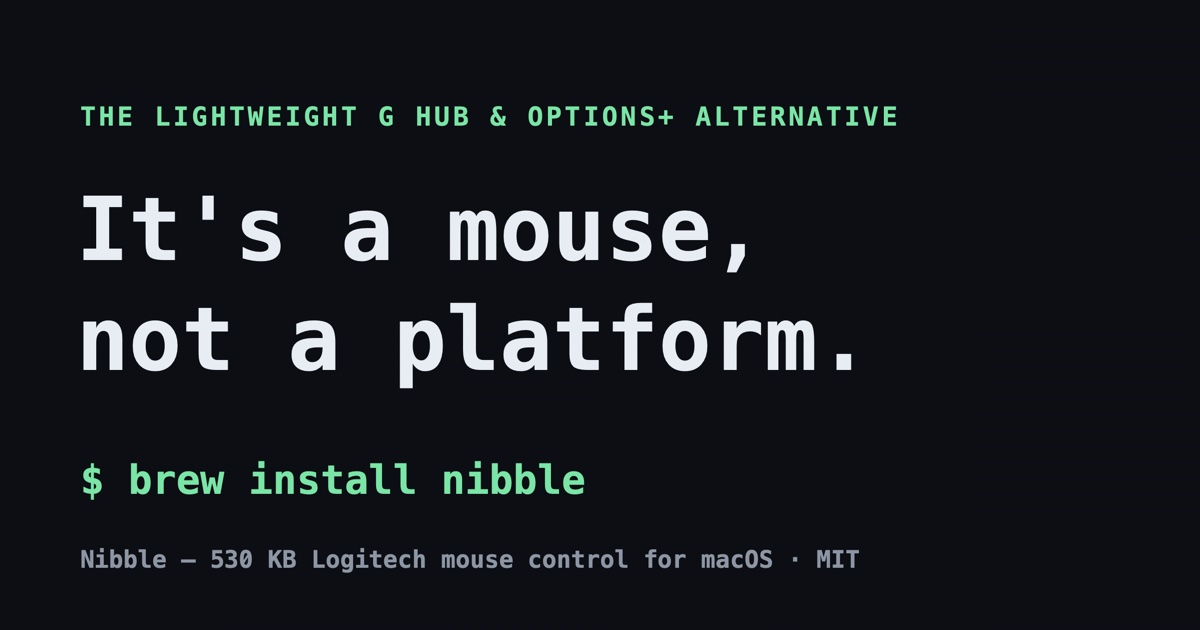
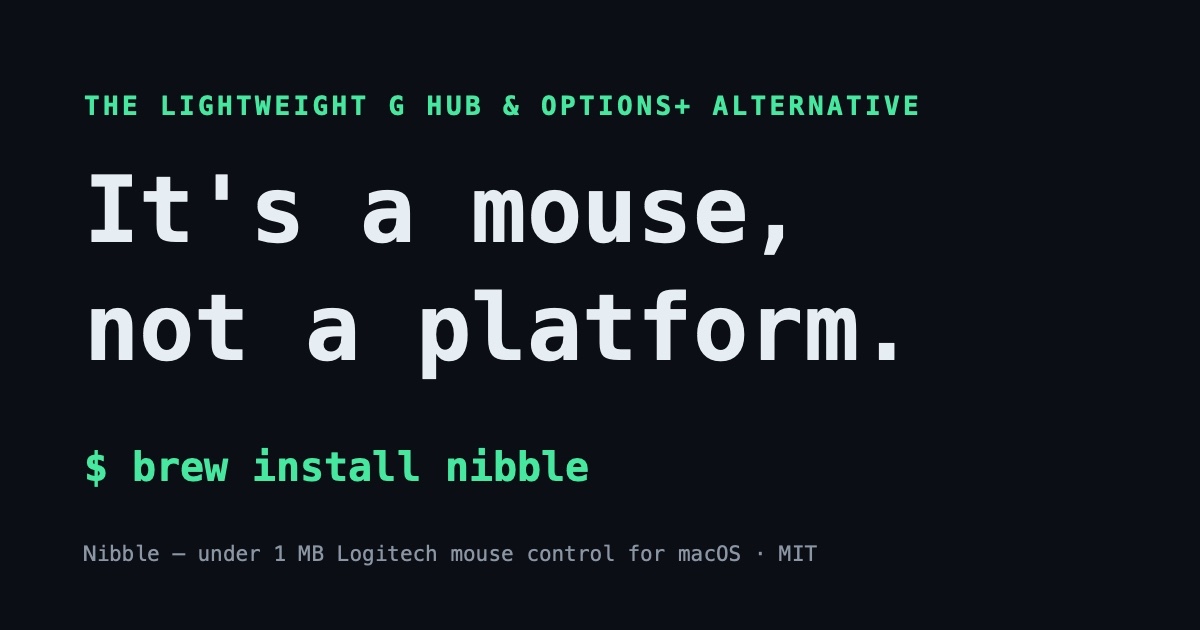
Copy pass for v1.7.0 — and stop baking the binary size into pixels
The site described v1.2.0: a CLI-only tool with a 530 KB binary and no
Bluetooth. Five releases later none of that is accurate.

Size claims now read "under 1 MB" instead of a number that goes stale
every release — including inside og.jpg, where "530 KB" was baked into
the pixels and could only be fixed by redrawing the image. The one
precise figure left is in the to-scale comparison, where the number is
the whole point; the fine print carries the version it applies to.
og.swift regenerates the card, so the next change doesn't mean
reverse-engineering the font and coordinates. It renders into an
explicit 1200x630 bitmap: NSImage.lockFocus would follow the screen's
2x scale and emit 2400x1260, contradicting og:image:width.

Corrections: softwareVersion 1.2.0 -> 1.7.0; the doctor sample was a
v1.2.0 screenshot with a check name that no longer exists; "Bluetooth-
direct not yet" is now implemented-but-unverified, which is a different
claim; wired USB works and was never mentioned; make app -> install-app.

Additions, all shipped but absent from the site: profiles, macros, the
settings window's actual contents, start-at-login, the configurable
low-battery alert, and the `profile` / `startup` commands. The config
example taught the legacy buttonMaps shape — still readable, but new
users shouldn't be learning the format we migrate away from.

Positioning: the pitch called Nibble a CLI. The GUI is now the primary
[…]

diff --git a/public/index.html b/public/index.html
@@ -3,10 +3,10 @@
 <head>
   <meta charset="utf-8" />
   <meta name="viewport" content="width=device-width, initial-scale=1, viewport-fit=cover" />
-  <title>Nibble — 530 KB Logitech mouse control for macOS</title>
-  <meta name="description" content="Nibble is a 530 KB zero-dependency CLI for Logitech mice on macOS — set DPI, remap buttons, read real battery voltage. No daemon, no telemetry, no account. brew install nibble." />
+  <title>Nibble — under 1 MB Logitech mouse control for macOS</title>
+  <meta name="description" content="Nibble is an under-1-MB zero-dependency tool for Logitech mice on macOS — set DPI, remap buttons with profiles and macros, read real battery voltage. Native settings window, CLI, and menu bar. No daemon, no telemetry, no account. brew install nibble." />
   <meta property="og:title" content="Nibble — it's a mouse, not a platform." />
-  <meta property="og:description" content="A 530 KB binary that speaks HID++ 4.2 to your Logitech mouse. No daemon, no telemetry, no account." />
+  <meta property="og:description" content="An under-1-MB binary that speaks HID++ 4.2 to your Logitech mouse. No daemon, no telemetry, no account." />
   <meta property="og:type" content="website" />
   <meta property="og:url" content="https://nibble-45j.pages.dev/" />
   <meta property="og:image" content="https://nibble-45j.pages.dev/og.jpg" />
@@ -14,7 +14,7 @@
   <meta property="og:image:height" content="630" />
   <meta name="twitter:card" content="summary_large_image" />
   <meta name="twitter:title" content="Nibble — it's a mouse, not a platform." />
-  <meta name="twitter:description" content="A 530 KB binary that speaks HID++ 4.2 to your Logitech mouse. No daemon, no telemetry, no account." />
+  <meta name="twitter:description" content="An under-1-MB binary that speaks HID++ 4.2 to your Logitech mouse. No daemon, no telemetry, no account." />
   <meta name="twitter:image" content="https://nibble-45j.pages.dev/og.jpg" />
   <link rel="canonical" href="https://nibble-45j.pages.dev/" />
   <script type="application/ld+json">
@@ -24,12 +24,12 @@
     "name": "Nibble",
     "operatingSystem": "macOS",
     "applicationCategory": "UtilitiesApplication",
-    "description": "A 530 KB zero-dependency CLI for Logitech mice on macOS — DPI, report rate, button remapping, battery voltage. No daemon, no telemetry, no account.",
+    "description": "An under-1-MB zero-dependency tool for Logitech mice on macOS — DPI, report rate, button remapping with profiles and macros, battery voltage. Native settings window, CLI, and menu bar. No daemon, no telemetry, no account.",
     "url": "https://nibble-45j.pages.dev/",
     "downloadUrl": "https://github.com/ben0128/nibble",
     "sameAs": ["https://github.com/ben0128/nibble"],
     "author": { "@type": "Person", "name": "ben0128", "url": "https://github.com/ben0128" },
-    "softwareVersion": "1.2.0",
+    "softwareVersion": "1.7.0",
     "license": "https://opensource.org/license/mit/",
     "offers": { "@type": "Offer", "price": "0", "priceCurrency": "USD" }
   }
@@ -130,6 +130,8 @@
       border: 1px solid color-mix(in srgb, var(--accent) 28%, transparent);
       padding: 5px 12px; border-radius: 999px;
     }
+    /* roadmap, not a feature — accent colouring here would read as "already done" */
+    .chip.muted { color: var(--soft); background: var(--panel); border-color: var(--line); }
 
     /* terminal card */
     .term {
@@ -240,6 +242,20 @@
     .req li { padding-left: 20px; position: relative; margin-top: 6px; }
     .req li::before { content: "·"; position: absolute; left: 6px; color: var(--accent); }
 
+    /* platform status row — deliberately NOT tabs: two of the three have nothing
+       to switch to, and a control that ignores clicks reads as a broken page */
+    .plat { display: flex; flex-wrap: wrap; align-items: center; gap: 12px; margin-top: 30px; }
+    .plat .now {
+      font: 600 .9rem var(--mono); color: var(--ink);
+      border: 1.5px solid color-mix(in srgb, var(--accent) 55%, transparent);
+      background: color-mix(in srgb, var(--accent) 8%, var(--bg));
+      border-radius: 10px; padding: 9px 15px;
+    }
+    .plat .now b { color: var(--accent); font-weight: 600; }
+    .plat .soon { font: 500 .86rem var(--mono); color: var(--soft); cursor: default; padding: 9px 2px; }
+    .plat-note { font-size: .88rem; color: var(--soft); margin: 14px 0 0; max-width: 68ch; }
+    .plat-note code { color: var(--ink); font-size: .92em; }
+
     /* honest strip */
     .honest { display: grid; grid-template-columns: repeat(3, 1fr); gap: 16px; margin-top: 36px; }
     .honest div { border-left: 2px solid var(--accent-dim); padding: 2px 0 2px 16px; }
@@ -292,15 +308,16 @@
       <div>
         <span class="eyebrow">The lightweight G HUB &amp; Options+ alternative</span>
         <h1>It's a mouse,<br />not a platform.</h1>
-        <p class="sub">A nibble is half a byte. This one is a 530 KB binary that runs your Logitech mouse from the macOS terminal — no daemon, no account, no telemetry.</p>
+        <p class="sub">A nibble is half a byte. This one is an under-1-MB binary that runs your Logitech mouse — native settings window, menu bar, or terminal. No daemon, no account, no telemetry.</p>
         <div class="cta-row">
           <button class="btn btn-brew" data-copy="brew tap ben0128/nibble && brew trust ben0128/nibble && brew install nibble" title="brew tap ben0128/nibble && brew trust ben0128/nibble && brew install nibble" aria-label="copy the Homebrew install command"><span class="p">$</span> brew install nibble <span class="cp">⧉</span></button>
           <a target="_blank" rel="noopener" class="btn btn-primary" href="https://github.com/ben0128/nibble">Get Nibble on GitHub</a>
         </div>
         <div class="hero-meta">
-          <span class="chip">530 KB binary</span>
+          <span class="chip">Under 1 MB</span>
           <span class="chip">Zero dependencies</span>
           <span class="chip">Open source · MIT</span>
+          <span class="chip muted">macOS today · Linux &amp; Windows soon</span>
         </div>
       </div>
 
@@ -325,16 +342,19 @@
 <span class="t-line o">63% 3.92V charging</span>
 <span class="t-line gap"></span>
 <span class="t-line"><span class="p">$</span> <span class="c">nibble doctor</span></span>
-<span class="t-line o">Nibble doctor v1.2.0</span>
+<span class="t-line o">Nibble doctor v1.7.0</span>
 <span class="t-line gap"></span>
 <span class="t-line o"> <span class="ok">✅</span> <span class="k">input-monitoring</span>  granted</span>
-<span class="t-line o"> <span class="ok">✅</span> <span class="k">receiver</span>          046D:C539</span>
+<span class="t-line o"> <span class="ok">✅</span> <span class="k">transports</span>        receiver 046D:C539</span>
 <span class="t-line o"> <span class="ok">✅</span> <span class="k">device</span>            G502 LIGHTSPEED · HID++ 4.2</span>
 <span class="t-line o"> <span class="ok">✅</span> <span class="k">battery</span>           63% charging (0x1001)</span>
 <span class="t-line o"> <span class="ok">✅</span> <span class="k">remap-capable</span>     0x8110 MouseButtonSpy</span>
-<span class="t-line o"> <span class="ok">✅</span> <span class="k">config</span>            ~/.config/nibble.json · 2 maps</span>
-<span class="t-line o"> •  <span class="k">menubar</span>           running (remap engine)</span>
+<span class="t-line o"> <span class="ok">✅</span> <span class="k">config</span>            ~/.config/nibble.json · 2 maps · profile Gaming</span>
+<span class="t-line o"> <span class="ok">✅</span> <span class="k">remap-engine</span>      running · 2 mapping(s) · 0x8110 spy</span>
+<span class="t-line o"> <span class="ok">✅</span> <span class="k">menubar</span>           running (remap engine host)</span>
+<span class="t-line o"> •  <span class="k">login-startup</span>     on</span>
 <span class="t-line o"> •  <span class="k">login-replay</span>      installed</span>
+<span class="t-line o"> •  <span class="k">low-battery-alert</span> below 20%</span>
 <span class="t-line gap"></span>
 <span class="t-line o"> <span class="ok">All good.</span></span>
 <span class="t-line"><span class="p">$</span> <span class="cursor"></span></span></pre>
@@ -346,7 +366,7 @@
   <section id="compare">
     <div class="wrap">
       <span class="eyebrow">The pitch, to scale</span>
-      <h2>G HUB is a 4 GB install. Nibble is 530 KB.</h2>
+      <h2>G HUB is a 4 GB install. Nibble is under 1 MB.</h2>
       <div class="bars">
         <div class="bar-row">
           <span class="bar-name">G HUB</span>
@@ -358,10 +378,10 @@
         </div>
         <div class="bar-row">
           <span class="bar-name">Nibble</span>
-          <div class="bar-track"><div class="bar nib"></div><span class="after-label">530 KB</span></div>
+          <div class="bar-track"><div class="bar nib"></div><span class="after-label">720 KB</span></div>
         </div>
       </div>
-      <p class="bars-note">Drawn to scale, 530 KB would be 0.12 px wide — we rounded up so you can see it.</p>
+      <p class="bars-note">720 KB as of v1.7.0. Drawn to scale that bar would be 0.16 px wide — we rounded up so you can see it.</p>
     </div>
   </section>
 
@@ -372,7 +392,7 @@
       <h2>Small, native, and honest.</h2>
       <div class="grid">
         <div class="card">
-          <h3>530 KB. Zero dependencies.</h3>
+          <h3>Under 1 MB. Zero dependencies.</h3>
           <p>One static binary built with make. No runtime, no installer, no framework — nothing to keep updated.</p>
         </div>
         <div class="card">
@@ -381,7 +401,7 @@
         </div>
         <div class="card">
           <h3>Remap any button. No G HUB.</h3>
-          <p>The button list is read from the device itself, so any Logitech mouse just works. Map keystrokes or system actions — quit the menu bar and factory behavior is back instantly.</p>
+          <p>The button list is read from the device itself, so any Logitech mouse just works. Bind a keystroke, a macro, or a system action — and switch whole sets with profiles. Quit the menu bar and factory behavior is back instantly.</p>
         </div>
         <div class="card">
           <h3>Verified writes. Real volts.</h3>
@@ -389,11 +409,23 @@
         </div>
         <div class="card">
           <h3>Speaks HID++ 4.2, natively.</h3>
-          <p>Raw protocol over your Lightspeed / Unifying receiver through IOKit — the same language G HUB speaks.</p>
+          <p>Raw protocol through IOKit over a Lightspeed / Unifying receiver, a USB cable, or Bluetooth — the same language G HUB speaks.</p>
         </div>
         <div class="card">
-          <h3>Set once. Replays at login.</h3>
-          <p>Your config is a tiny JSON; a one-shot launchd agent re-applies it at login and exits. Every read command speaks --json, for scripts and agents.</p>
+          <h3>A real window, not a web view.</h3>
+          <p>Hand-written AppKit: a settings window with DPI, report rate, lighting and a button editor, plus a menu bar that draws the battery inside the mouse icon. No Electron, no SwiftUI runtime.</p>
+        </div>
+        <div class="card">
+          <h3>It tells you why it stopped.</h3>
+          <p>Permissions and engine state are on screen, each failure next to the button that fixes it — and nibble doctor prints the same checks with a concrete next step. Every read command speaks --json, for scripts and agents.</p>
+        </div>
+        <div class="card">
+          <h3>Nothing to take on faith.</h3>
+          <p>MIT, one directory of Swift, no dependencies to audit. 74 tests cover the protocol framing, parsing and config merges — clone it and make test.</p>
+        </div>
+        <div class="card">
+          <h3>Set once. Comes back at login.</h3>
+          <p>Your config is a tiny JSON. One switch registers the menu bar as a login item so remaps survive a reboot; another re-applies DPI, rate and lighting through a one-shot launchd agent that exits immediately.</p>
         </div>
       </div>
     </div>
@@ -421,13 +453,15 @@
               <tr><td>nibble onboard info|backup</td><td>Onboard memory info / read-only full dump</td></tr>
               <tr><td>nibble config init|show</td><td>Create from current state / print ~/.config/nibble.json</td></tr>
               <tr><td>nibble apply</td><td>Apply the config file (runtime writes)</td></tr>
-              <tr><td>nibble replay install|uninstall</td><td>Auto-apply at login via a one-shot launchd agent</td></tr>
+              <tr><td>nibble replay install|uninstall</td><td>Auto-apply DPI / rate / lighting at login via a one-shot launchd agent</td></tr>
+              <tr><td>nibble startup [on|off]</td><td>Start the menu bar at login, so button remaps survive a reboot</td></tr>
               <tr><td>nibble buttons</td><td>Enumerate programmable buttons (0x1b04 MX-series / 0x8110 G-series)</td></tr>
               <tr><td>nibble spy [seconds]</td><td>Live button-event monitor, G-series diagnostic</td></tr>
-              <tr><td>nibble remap</td><td>Interactive remap: press a button → assign keystroke / system action / disable</td></tr>
+              <tr><td>nibble remap</td><td>Interactive remap: press a button → assign keystroke / macro / system action / disable</td></tr>
+              <tr><td>nibble profile [use|copy|new|rename|delete]</td><td>Switch between whole sets of button mappings</td></tr>
               <tr><td>nibble menubar</td><td>Interactive menu bar: battery + DPI/rate/RGB; hosts the remap engine (~15 MB, opt-in)</td></tr>
-              <tr><td>Nibble.app</td><td>Menu bar launched from Finder (make app) — adds low-battery notifications</td></tr>
-              <tr><td>nibble ui</td><td>Native settings window (General + Buttons tabs); quits when closed</td></tr>
+              <tr><td>Nibble.app</td><td>Menu bar launched from Finder (make install-app) — adds low-battery notifications and the login item</td></tr>
+              <tr><td>nibble ui</td><td>Native settings window: General (DPI, rate, lighting, login, alerts, health) + Buttons (remap table with profiles)</td></tr>
             </tbody>
           </table>
         </div>
@@ -444,10 +478,17 @@
       <span class="eyebrow">Get started</span>
       <h2>Three lines to a configured mouse.</h2>
 
+      <div class="plat">
+        <span class="now">macOS 13+ &nbsp;<b>✓ shipping</b></span>
+        <span class="soon">Linux · coming soon</span>
+        <span class="soon">Windows · coming soon</span>
+      </div>
+      <p class="plat-note">Only the transport touches OS APIs: <code>HIDPP.swift</code> speaks the protocol with nothing but Foundation, so porting the CLI means rewriting one file — hidraw on Linux, <code>HidD_*</code> on Windows. The AppKit menu bar and settings window would need native equivalents.</p>
+
       <div class="duo">
         <div class="panel">
           <h3>Install</h3>
-          <p class="hint">macOS with the Swift toolchain (xcode-select --install). Logitech mouse on a USB receiver — Lightspeed / Unifying; Bluetooth-direct not yet. Tested on G502 LIGHTSPEED.</p>
+          <p class="hint">macOS 13+ with the Swift toolchain (xcode-select --install). Logitech mouse on a Lightspeed / Unifying receiver, over a USB cable, or paired directly over Bluetooth. Tested on G502 LIGHTSPEED via receiver; the Bluetooth-direct path follows the HID++ spec but is not yet verified on hardware.</p>
           <pre class="code"><button class="copy" data-copy="brew tap ben0128/nibble
 brew trust ben0128/nibble
 brew install nibble">copy</button><span class="n">brew tap</span> ben0128/nibble
@@ -459,9 +500,9 @@ make
 ./nibble status">copy</button><span class="n">git clone</span> https://github.com/ben0128/nibble <span class="s">&amp;&amp;</span> <span class="n">cd</span> nibble
 <span class="n">make</span>
 ./nibble status</pre>
-          <p class="hint" style="margin:14px 0 0">make app builds Nibble.app — the same menu bar launched from Finder, plus low-battery notifications.</p>
+          <p class="hint" style="margin:14px 0 0">make install-app puts Nibble.app in /Applications — the same menu bar launched from Finder, plus low-battery notifications and “start at login”.</p>
           <div class="callout">
-            <b>First run:</b> <span>grant Input Monitoring — System Settings → Privacy &amp; Security → Input Monitoring → enable your terminal, then re-run. Error</span> <code>0xE00002E2</code> <span>just means the permission is missing; no restart needed. Button remapping additionally needs Accessibility (prompted on first engine start).</span>
+            <b>First run:</b> <span>grant Input Monitoring — System Settings → Privacy &amp; Security → Input Monitoring → enable your terminal, then re-run. Error</span> <code>0xE00002E2</code> <span>just means the permission is missing; no restart needed. Button remapping additionally needs Accessibility — the engine asks once and retries on its own, so remaps start working seconds after you grant it.</span>
           </div>
         </div>
 
@@ -472,14 +513,19 @@ make
   <span class="k">"dpi"</span>: <span class="n">1600</span>,
   <span class="k">"reportRateHz"</span>: <span class="n">1000</span>,
   <span class="k">"rgb"</span>: <span class="s">"off"</span>,
-  <span class="k">"buttonMaps"</span>: {
-    <span class="k">"G502 LIGHTSPEED Wireless Gaming Mouse"</span>: {
-      <span class="k">"G7"</span>: { <span class="k">"type"</span>: <span class="s">"keys"</span>, <span class="k">"keys"</span>: <span class="s">"cmd+space"</span> },
-      <span class="k">"G8"</span>: { <span class="k">"type"</span>: <span class="s">"system"</span>, <span class="k">"action"</span>: <span class="s">"mission-control"</span> }
+  <span class="k">"lowBatteryPercent"</span>: <span class="n">20</span>,
+  <span class="k">"activeProfile"</span>: <span class="s">"Gaming"</span>,
+  <span class="k">"buttonProfiles"</span>: {
+    <span class="k">"Gaming"</span>: {
+      <span class="k">"G502 LIGHTSPEED Wireless Gaming Mouse"</span>: {
+        <span class="k">"G7"</span>: { <span class="k">"type"</span>: <span class="s">"keys"</span>,   <span class="k">"keys"</span>: <span class="s">"cmd+space"</span> },
+        <span class="k">"G8"</span>: { <span class="k">"type"</span>: <span class="s">"macro"</span>,  <span class="k">"keys"</span>: <span class="s">"cmd+c, 150ms, cmd+v"</span> },
+        <span class="k">"G9"</span>: { <span class="k">"type"</span>: <span class="s">"system"</span>, <span class="k">"action"</span>: <span class="s">"mission-control"</span> }
+      }
     }
   }
 }</pre>
-          <p class="hint" style="margin:14px 0 0">Also available: wheelMode "free" / "ratchet" and wheelThreshold 1–254 (MX-series). Then nibble apply — or nibble replay install to re-apply at every login.</p>
+          <p class="hint" style="margin:14px 0 0">Also available: lowBatteryNotify false to silence alerts, and wheelMode "free" / "ratchet" with wheelThreshold 1–254 (MX-series). Then nibble apply — or nibble replay install to re-apply at every login. A config from an older version, with mappings directly under buttonMaps, is read as the Default profile and migrated on first write.</p>
         </div>
       </div>
 

diff --git a/og.swift b/og.swift
@@ -1,0 +1,62 @@
+// og.swift — 重畫分享卡片（1200×630 JPEG）。
+// 原圖把「530 KB」燒進像素裡，尺寸一變圖就成了錯誤資訊；改成不會過期的說法。
+// 用 CoreGraphics 直接畫，不引入任何影像處理依賴。
+import AppKit
+
+let W = 1200.0, H = 630.0
+let bg = NSColor(srgbRed: 0x0B / 255, green: 0x0E / 255, blue: 0x14 / 255, alpha: 1)
+let ink = NSColor(srgbRed: 0xE6 / 255, green: 0xED / 255, blue: 0xF3 / 255, alpha: 1)
+let accent = NSColor(srgbRed: 0x46 / 255, green: 0xE8 / 255, blue: 0xA0 / 255, alpha: 1)
+let soft = NSColor(srgbRed: 0x8B / 255, green: 0x96 / 255, blue: 0xA5 / 255, alpha: 1)
+
+// 等寬字：跟網站的 --mono 一致（SF Mono 不一定可載入，退回 Menlo）
+func mono(_ size: CGFloat, _ weight: NSFont.Weight = .regular) -> NSFont {
+    NSFont(name: "SFMono-Bold", size: size)
+        ?? NSFont(name: "Menlo-Bold", size: size)
+        ?? NSFont.monospacedSystemFont(ofSize: size, weight: weight)
+}
+func monoRegular(_ size: CGFloat) -> NSFont {
+    NSFont(name: "SFMono-Regular", size: size)
+        ?? NSFont(name: "Menlo", size: size)
+        ?? NSFont.monospacedSystemFont(ofSize: size, weight: .regular)
+}
+
+// 明確開一張 1200×630 的點陣圖再畫：NSImage.lockFocus 會跟著螢幕的 2x 縮放，
+// 產出 2400×1260 的檔案，跟 og:image:width/height 宣告的尺寸不符。
+guard let rep = NSBitmapImageRep(bitmapDataPlanes: nil, pixelsWide: Int(W), pixelsHigh: Int(H),
+                                bitsPerSample: 8, samplesPerPixel: 4, hasAlpha: true, isPlanar: false,
+                                colorSpaceName: .deviceRGB, bytesPerRow: 0, bitsPerPixel: 0),
+      let ctx = NSGraphicsContext(bitmapImageRep: rep) else {
+    FileHandle.standardError.write(Data("failed to create bitmap\n".utf8))
+    exit(1)
+}
+NSGraphicsContext.saveGraphicsState()
+NSGraphicsContext.current = ctx
+bg.setFill()
+NSRect(x: 0, y: 0, width: W, height: H).fill()
+
+func draw(_ text: String, _ font: NSFont, _ color: NSColor, x: CGFloat, baselineFromTop: CGFloat,
+          tracking: CGFloat = 0) {
+    var attrs: [NSAttributedString.Key: Any] = [.font: font, .foregroundColor: color]
+    if tracking != 0 { attrs[.kern] = tracking }
+    let s = NSAttributedString(string: text, attributes: attrs)
+    // AppKit 的原點在左下角，但版面是從上往下量的
+    s.draw(at: NSPoint(x: x, y: H - baselineFromTop - font.ascender))
+}
+
+let L = 84.0
+draw("THE LIGHTWEIGHT G HUB & OPTIONS+ ALTERNATIVE", mono(26), accent, x: L, baselineFromTop: 96, tracking: 3.4)
+draw("It's a mouse,", mono(92), ink, x: L, baselineFromTop: 178)
+draw("not a platform.", mono(92), ink, x: L, baselineFromTop: 296)
+draw("$ brew install nibble", mono(40), accent, x: L, baselineFromTop: 452)
+draw("Nibble — under 1 MB Logitech mouse control for macOS · MIT", monoRegular(21), soft, x: L, baselineFromTop: 546)
+
+NSGraphicsContext.restoreGraphicsState()
+
+guard let jpeg = rep.representation(using: .jpeg, properties: [.compressionFactor: 0.92]) else {
+    FileHandle.standardError.write(Data("failed to encode\n".utf8))
+    exit(1)
+}
+let out = CommandLine.arguments.count > 1 ? CommandLine.arguments[1] : "og.jpg"
+try jpeg.write(to: URL(fileURLWithPath: out))
+print("wrote \(out) — \(jpeg.count) bytes")

diff --git a/README.md b/README.md
@@ -1,6 +1,6 @@
 # nibble-site
 
-Landing page for [Nibble](https://github.com/ben0128/nibble) — 530 KB zero-dependency Logitech mouse control for macOS.
+Landing page for [Nibble](https://github.com/ben0128/nibble) — under-1-MB zero-dependency Logitech mouse control for macOS.
 
 **Live:** [nibble-45j.pages.dev](https://nibble-45j.pages.dev) (Cloudflare Pages, project `nibble`)
 
